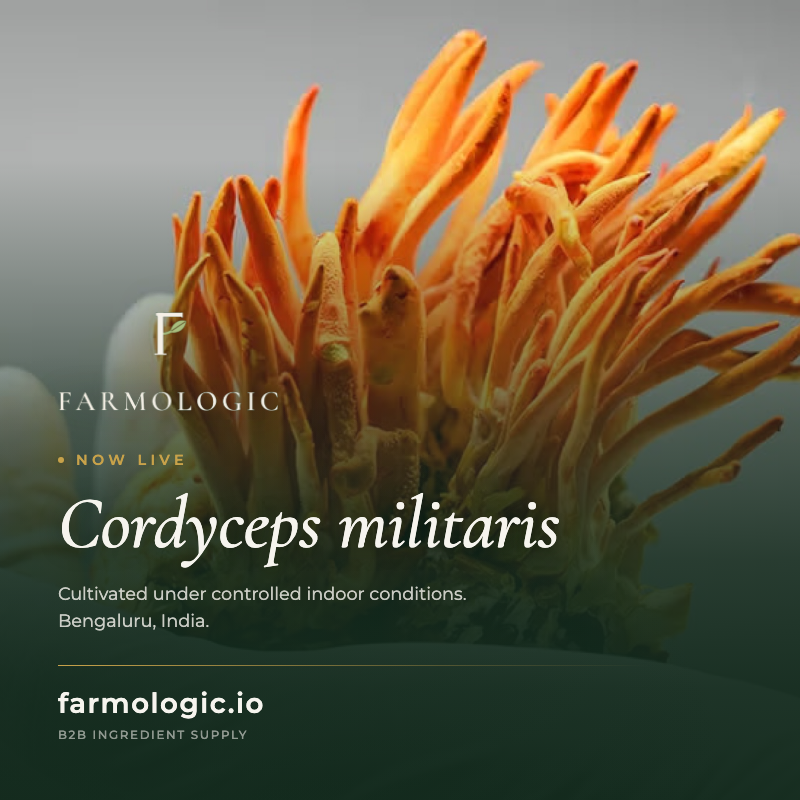
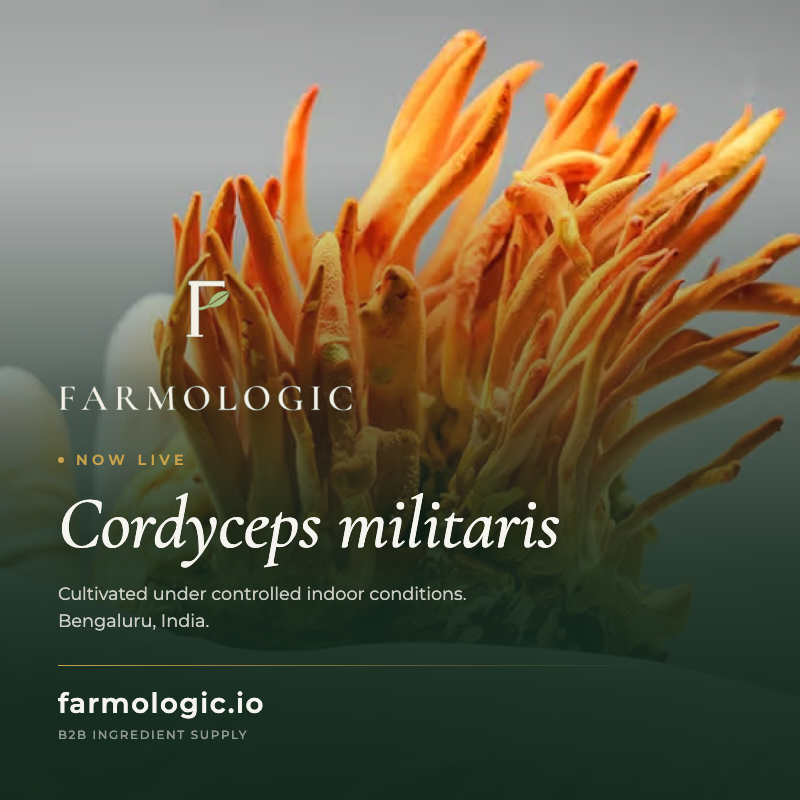
Use the supplied lockup on the posters at 200u
The client supplied logo-header.png, committed as poster-logo.png, and it
is what the studio boards carry now, at 200u against 210u for the taller
lockup it replaces.

The photographic boards keep the reversed version of the same lockup, also
at 200u. The supplied file is dark artwork and the scrim under it is deep
forest, so on those five boards it rendered almost invisible.

The site is untouched.

Changed region(s): [[0.0625, 0.4688, 0.4375, 0.5312], [0.1875, 0.3438, 0.2812, 0.4375]]

diff --git a/marketing/build_posters.py b/marketing/build_posters.py
@@ -163,7 +163,7 @@ def css(fonts):
 /* The lockups are lifted from the brand deck's vector art, one dark and one
    reversed, so neither ground needs the logo boxed on a tile any more. */
 .tile{{display:inline-block;line-height:0;margin-bottom:calc(var(--u) * 54)}}
-.tile img{{display:block;width:auto;height:calc(var(--u) * 150)}}
+.tile img{{display:block;width:auto;height:calc(var(--u) * 200)}}
 .photo .tile img{{filter:drop-shadow(0 calc(var(--u) * 2) calc(var(--u) * 26) rgba(9,20,14,.62))}}
 
 .eyebrow{{display:flex;align-items:center;gap:.85em;color:var(--gold);
@@ -208,7 +208,7 @@ h1{{font-family:'Cormorant Garamond',Georgia,serif;font-style:italic;font-weight
 .story.studio    .motif{{right:0;bottom:40%;width:88%;height:30%}}
 .wide.studio     .motif{{right:4%;bottom:14%;width:26%;height:70%}}
 
-.studio .tile img{{height:calc(var(--u) * 210)}}
+.studio .tile img{{height:calc(var(--u) * 200)}}
 .studio .foot{{position:relative;z-index:2}}
 
 /* Brand gold is 2.19:1 on bone and fails as text, so text here takes the
@@ -267,7 +267,7 @@ def board_markup(variant, shape, w, h, photo_uri, focal, logo_uri, motif_uri):
 def main():
     fonts = {k: data_uri(os.path.join(FONTS, v), "font/ttf") for k, v in FONT_FILES.items()}
     logos = {
-        "studio": data_uri(os.path.join(IMG, "logo-lockup-hi.png"), "image/png"),
+        "studio": data_uri(os.path.join(IMG, "poster-logo.png"), "image/png"),
         "photo": data_uri(os.path.join(IMG, "logo-lockup-reversed-nt.png"), "image/png"),
     }
     photos = {}
